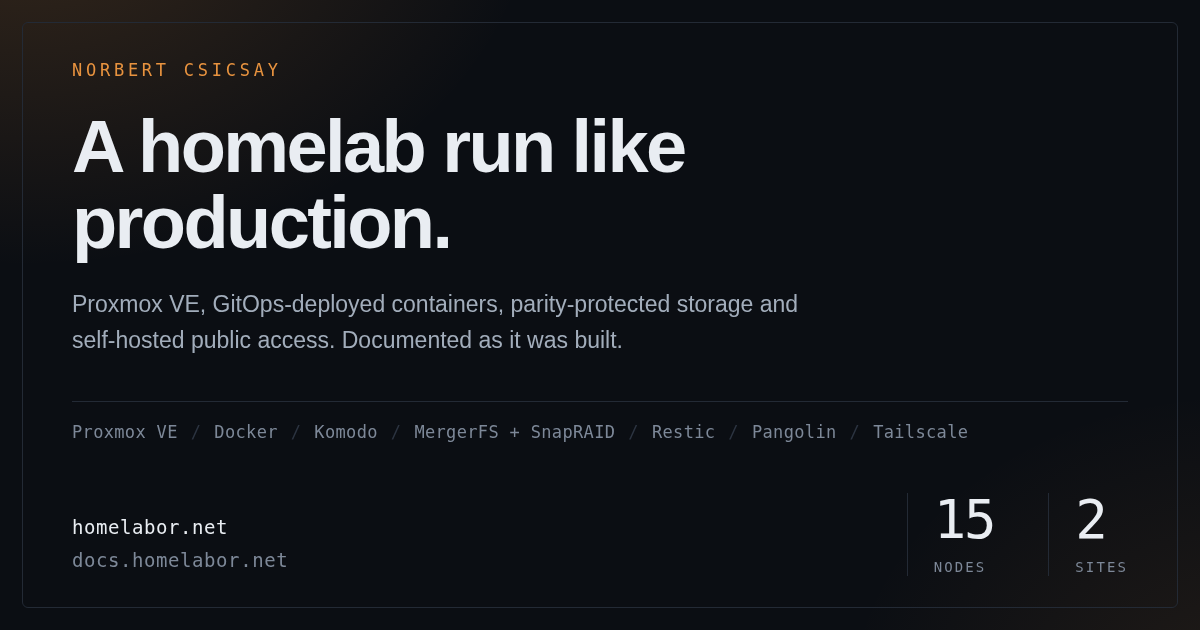
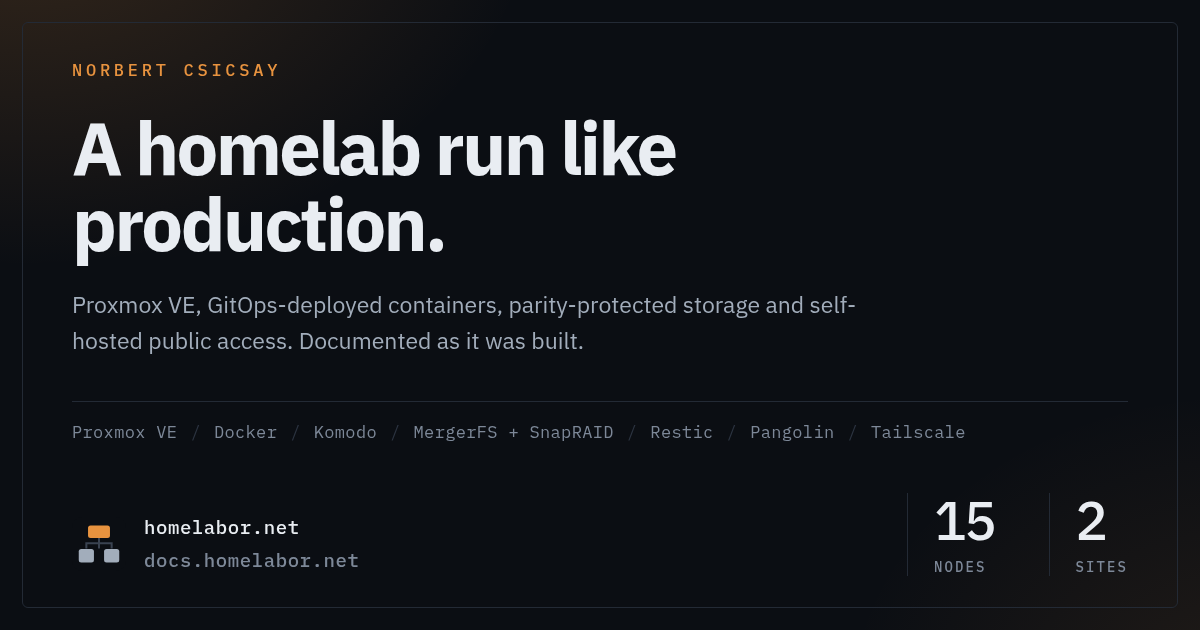
feat(landing): set the share card in the brand faces and put the Mark on it
og.html had no subresource at all, which is why it screenshotted straight
from file:// with no flags. An @font-face is its first, and Chrome restricts
font loads under file:// - silently, so the card would have rendered in a
fallback face and looked fine. The documented command now serves the repo
root over HTTP.

The old Liberation Sans / DejaVu stack was deliberate: it made this Linux
render machine deterministic. Self-hosted faces make it unnecessary, and the
card and the page are now the same typeface for the first time.

The card also had no Mark at all - .marks is a text class holding the two
domain names - so the spec's criterion was unmet by a file nobody reads twice.
It is inlined rather than referenced, so it cannot half-load into a gap.

diff --git a/compose/vps/landing/og.html b/compose/vps/landing/og.html
@@ -4,28 +4,60 @@
   it lives here rather than in src/ because build.sh copies src/ wholesale
   into a public web root, and the generator has no business being served.
 
-  Regenerate:
+  Regenerate. Must be served over HTTP: og.html now carries @font-face rules,
+  and Chrome restricts font loads for the local-disk scheme, silently, so the
+  card would render in a fallback face and look fine.
 
+    cd /root/homelab
+    python3 -m http.server 8901 &
+    sleep 2
     google-chrome --headless=new --disable-gpu --no-sandbox --hide-scrollbars \
       --run-all-compositor-stages-before-draw \
       --screenshot=compose/vps/landing/src/og.png \
       --window-size=1200,630 --virtual-time-budget=9000 \
-      file://$PWD/compose/vps/landing/og.html
+      http://127.0.0.1:8901/compose/vps/landing/og.html
+    pkill -f "http.server 8901"
 
   The two figures come from the same nodes.yml that generates topology.png,
   and the figcaption on the page repeats them in words. If a host is added or
   removed, all three move together: rebuild the topology map, re-export
   topology.png, rerun the command above, and fix the figcaption.
 
-  Self-contained on purpose: no shared stylesheet, because the card must keep
-  rendering identically years from now even if style.css moves on. The values
-  below are copied from style.css, not imported.
+  Still self-contained in the sense that matters: no shared stylesheet, so the
+  card keeps rendering identically even if style.css moves on. The exception is
+  the three @font-face rules below, which reach into brand/ because that holds
+  the only committed copy of each face and a stale .woff2 is invisible in a
+  diff. That is the exception ADR 0002 already carves out for binaries. The
+  values below are copied from style.css, not imported.
 -->
 <html lang="en">
 <head>
 <meta charset="utf-8">
 <title>homelabor.net Open Graph card</title>
 <style>
+  /* Rendered over HTTP, not file:// - see the command in README.md. Chrome
+     restricts font loads under file://, and the failure is silent: the card
+     renders in a fallback face and looks perfectly fine while being wrong.
+     This file had no subresource at all before these three rules, which is
+     why the old command needed no server.
+
+     Paths are relative to the repository root, which is what the render
+     command serves. */
+  @font-face {
+    font-family: "IBM Plex Sans";
+    src: url("../../../brand/ibm-plex-sans-var.woff2") format("woff2");
+    font-weight: 100 700;
+  }
+  @font-face {
+    font-family: "IBM Plex Mono";
+    src: url("../../../brand/ibm-plex-mono-400.woff2") format("woff2");
+    font-weight: 400;
+  }
+  @font-face {
+    font-family: "IBM Plex Mono";
+    src: url("../../../brand/ibm-plex-mono-500.woff2") format("woff2");
+    font-weight: 500;
+  }
   :root {
     --bg:        #0b0e13;
     --surface:   #12161d;
@@ -34,8 +66,8 @@
     --ink-2:     #a2adbb;
     --ink-3:     #7d8898;
     --accent:    #e8933f;
-    --sans: "Liberation Sans", "Segoe UI", system-ui, Arial, sans-serif;
-    --mono: "DejaVu Sans Mono", "Liberation Mono", ui-monospace, monospace;
+    --sans: "IBM Plex Sans", system-ui, sans-serif;
+    --mono: "IBM Plex Mono", ui-monospace, monospace;
   }
 
   * { box-sizing: border-box; margin: 0; padding: 0; }
@@ -127,6 +159,9 @@
 
   .marks b { color: var(--ink); font-weight: 500; }
 
+  .marks-row { display: flex; align-items: center; gap: 18px; }
+  .mark { width: 54px; height: 54px; flex: none; }
+
   .stats { display: flex; gap: 54px; }
 
   .stat { padding-left: 26px; border-left: 1px solid var(--line); }
@@ -170,7 +205,19 @@
   </div>
 
   <div class="foot">
-    <p class="marks"><b>homelabor.net</b><br>docs.homelabor.net</p>
+    <div class="marks-row">
+      <!-- The Mark, inlined from brand/mark-large.svg. Copy it verbatim when
+           that file changes; nothing enforces it, and a stale copy here shows
+           up only on a share card nobody looks at twice. -->
+      <svg class="mark" viewBox="0 0 64 64" role="img" aria-label="homelabor.net">
+        <rect width="64" height="64" rx="12" fill="#0b0e13"/>
+        <path d="M32 25v11M17 36v-5h30v5" fill="none" stroke="#3a4351" stroke-width="2.4" stroke-linecap="square"/>
+        <rect x="19" y="10" width="26" height="15" rx="3" fill="#e8933f"/>
+        <rect x="8" y="38" width="18" height="16" rx="3" fill="#a2adbb"/>
+        <rect x="38" y="38" width="18" height="16" rx="3" fill="#a2adbb"/>
+      </svg>
+      <p class="marks"><b>homelabor.net</b><br>docs.homelabor.net</p>
+    </div>
     <div class="stats">
       <div class="stat">
         <span class="figure">15</span>

diff --git a/compose/vps/landing/README.md b/compose/vps/landing/README.md
@@ -70,21 +70,33 @@ a host therefore moves five things, and they must move in one go:
    checkout that `build.sh` runs against. Do not edit it: it is byte-for-byte the
    output of `topology/build.js`, and any hand edit is lost on the next copy.
 
-4. re-render the card, from the repo root:
+4. re-render the card. It must be served over HTTP, not opened from `file://`:
+   `og.html` now carries `@font-face` rules, and Chrome restricts font loads
+   under `file://`. The failure is silent - the card renders in a fallback face
+   and looks fine. From the repo root:
 
    ```bash
+   python3 -m http.server 8901 &
+   sleep 2
    google-chrome --headless=new --disable-gpu --no-sandbox --hide-scrollbars \
      --run-all-compositor-stages-before-draw \
      --screenshot=compose/vps/landing/src/og.png \
      --window-size=1200,630 --virtual-time-budget=9000 \
-     file://$PWD/compose/vps/landing/og.html
+     http://127.0.0.1:8901/compose/vps/landing/og.html
+   pkill -f "http.server 8901"
    ```
+
+   The server must run from the repository root, because the font paths in
+   `og.html` reach up into `brand/`.
 
 5. update the figcaption wording in `src/index.html`
 
-`src/favicon.svg` needs none of this. Note when editing it that an XML comment may not
-contain two consecutive hyphens: an invalid SVG still copies into `dist/` happily and
-only shows up as a missing tab icon.
+`src/favicon.svg` needs none of this, but it no longer stands alone: `og.html`
+inlines the same drawing, and `brand/mark-large.svg` is the header-size variant.
+Change one and change all three, or the share card advertises a mark the site no
+longer uses. Note when editing any of them that an XML comment may not contain two
+consecutive hyphens: an invalid SVG still copies into `dist/` happily and only shows
+up as a missing tab icon.
 
 ## The Content-Security-Policy forbids inline script and inline style
 
